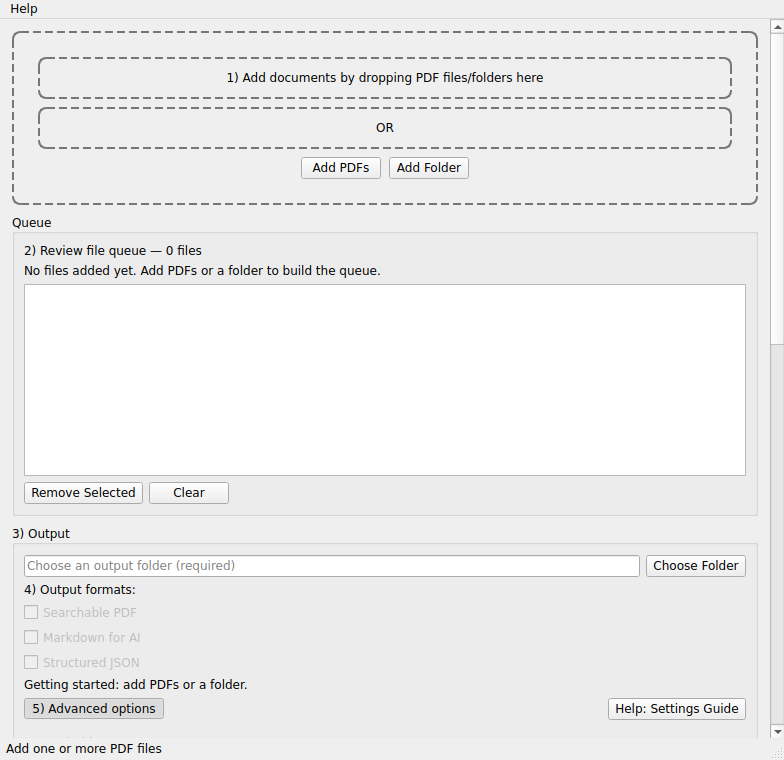
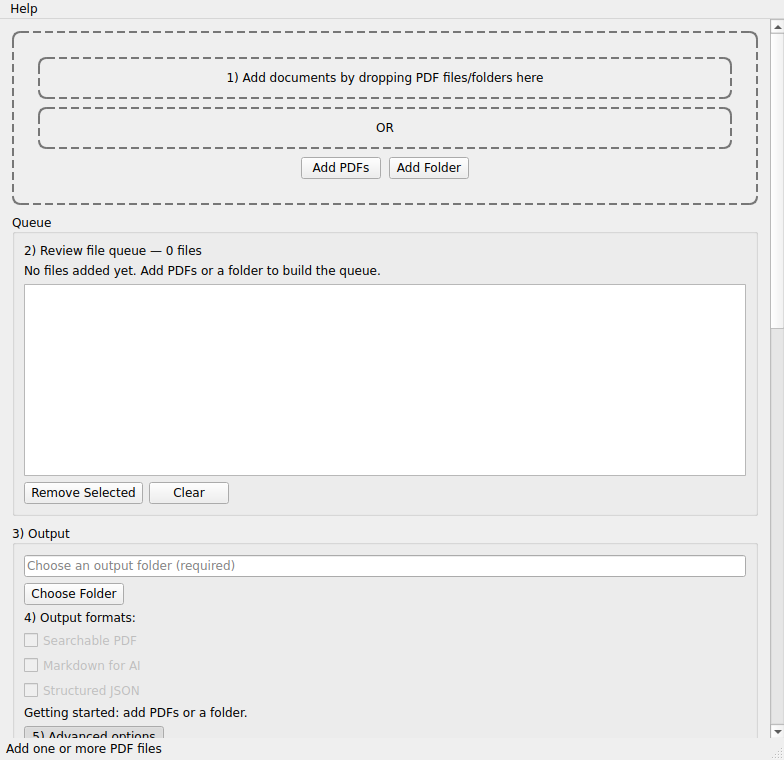
Tighten responsive sizing for Windows font-metric overflow

diff --git a/src/source_doc_converter/application_window.py b/src/source_doc_converter/application_window.py
@@ -8,7 +8,6 @@ from PySide6.QtWidgets import (
     QComboBox,
     QFileDialog,
     QGroupBox,
-    QHBoxLayout,
     QLabel,
     QListWidget,
     QListWidgetItem,
@@ -245,10 +244,9 @@ class ApplicationWindow(MainWindow):
         self.reset_tesseract_button = QPushButton("Reset to Automatic")
         self.reset_tesseract_button.clicked.connect(self._reset_tesseract_profile)
         tesseract_row.addWidget(self.tesseract_profile_combo)
-        tesseract_actions_row = QHBoxLayout()
+        tesseract_actions_row = QVBoxLayout()
         tesseract_actions_row.addWidget(self.browse_tesseract_button)
         tesseract_actions_row.addWidget(self.reset_tesseract_button)
-        tesseract_actions_row.addStretch()
         tesseract_row.addLayout(tesseract_actions_row)
         self.tesseract_languages_list = QListWidget()
         self.tesseract_languages_list.setSelectionMode(QListWidget.SelectionMode.MultiSelection)
@@ -323,9 +321,8 @@ class ApplicationWindow(MainWindow):
         settings_help_button = QPushButton("Help: Settings Guide")
         settings_help_button.setAccessibleName("Open Settings Guide")
         settings_help_button.clicked.connect(self.show_settings_guide)
-        advanced_toggle_row = QHBoxLayout()
+        advanced_toggle_row = QVBoxLayout()
         advanced_toggle_row.addWidget(self.advanced_toggle_button)
-        advanced_toggle_row.addStretch()
         advanced_toggle_row.addWidget(settings_help_button)
 
         self.advanced_panel = QWidget()

diff --git a/src/source_doc_converter/main_window.py b/src/source_doc_converter/main_window.py
@@ -146,12 +146,15 @@ class MainWindow(QMainWindow):
             QSizePolicy.Policy.Preferred,
         )
         output_layout = QVBoxLayout()
-        output_folder_row = QHBoxLayout()
+        output_folder_row = QVBoxLayout()
         self.output_path_edit = QLineEdit()
         self.output_path_edit.setReadOnly(True)
         self.output_path_edit.setPlaceholderText("Choose an output folder (required)")
+        self.output_path_edit.setMinimumWidth(0)
+        self.output_path_edit.setSizePolicy(QSizePolicy.Policy.Expanding, QSizePolicy.Policy.Fixed)
         self.choose_output_button = QPushButton("Choose Folder")
         self.choose_output_button.clicked.connect(self.choose_output_directory)
+        self.choose_output_button.setSizePolicy(QSizePolicy.Policy.Maximum, QSizePolicy.Policy.Fixed)
         output_folder_row.addWidget(self.output_path_edit)
         output_folder_row.addWidget(self.choose_output_button)
         self.next_step_label = QLabel("")
